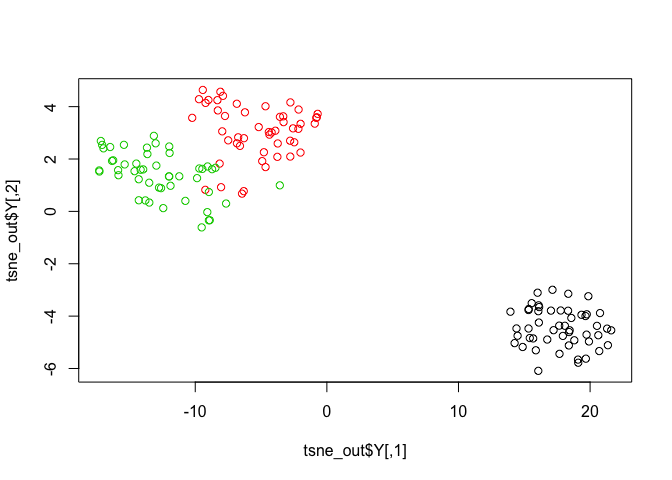
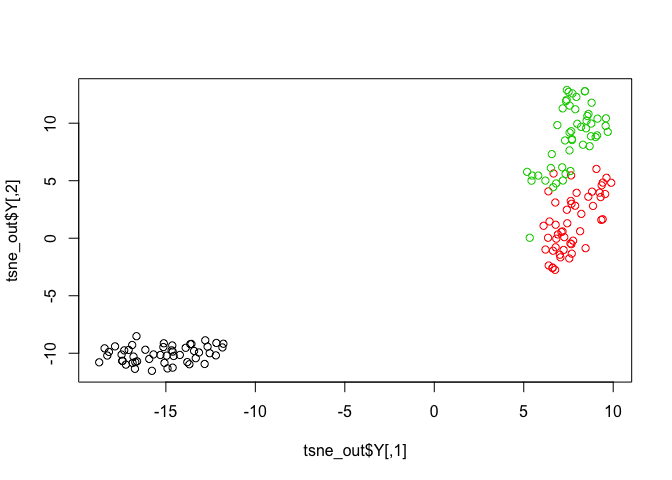
Updates README with example where the seed is set

diff --git a/README.md b/README.md
@@ -12,6 +12,7 @@ After installing the package, use the following code to run a simple example (to
 ``` r
 library(Rtsne) # Load package
 iris_unique <- unique(iris) # Remove duplicates
+set.seed(42) # Sets seed for reproducibility
 tsne_out <- Rtsne(as.matrix(iris_unique[,1:4])) # Run TSNE
 plot(tsne_out$Y,col=iris$Species) # Plot the result
 ```
